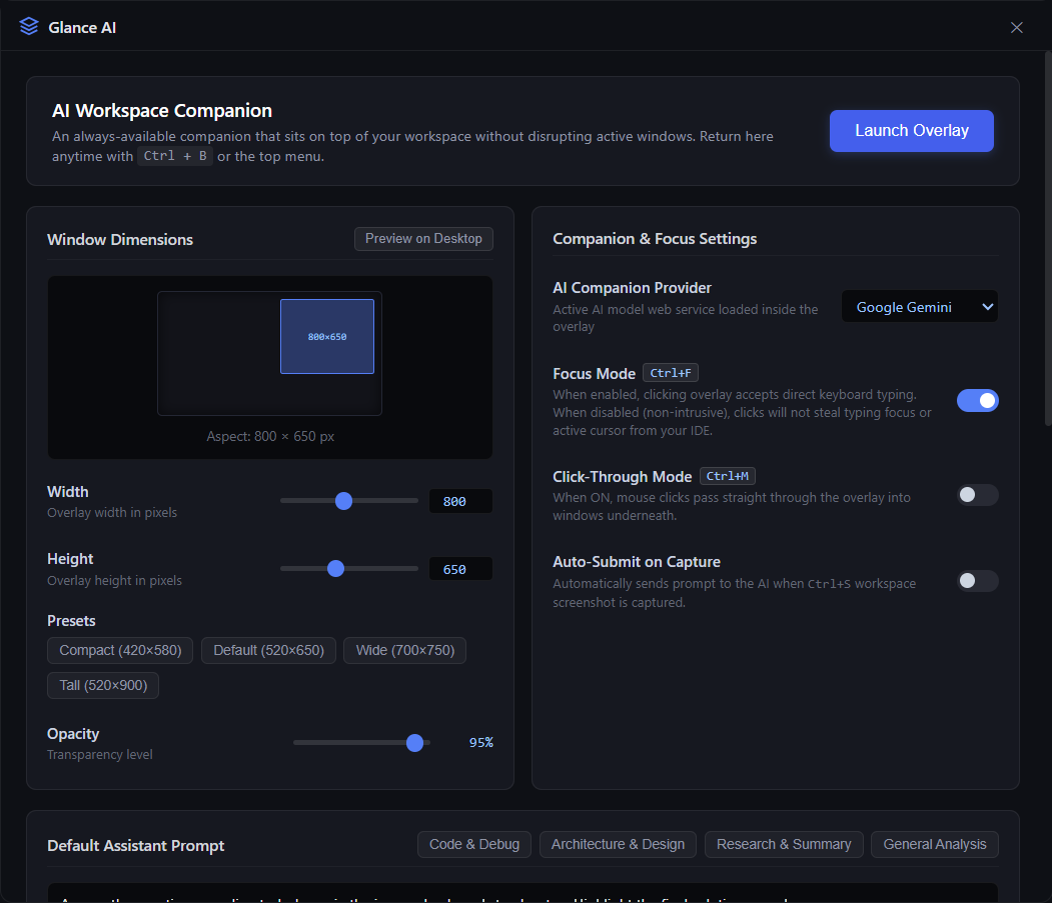
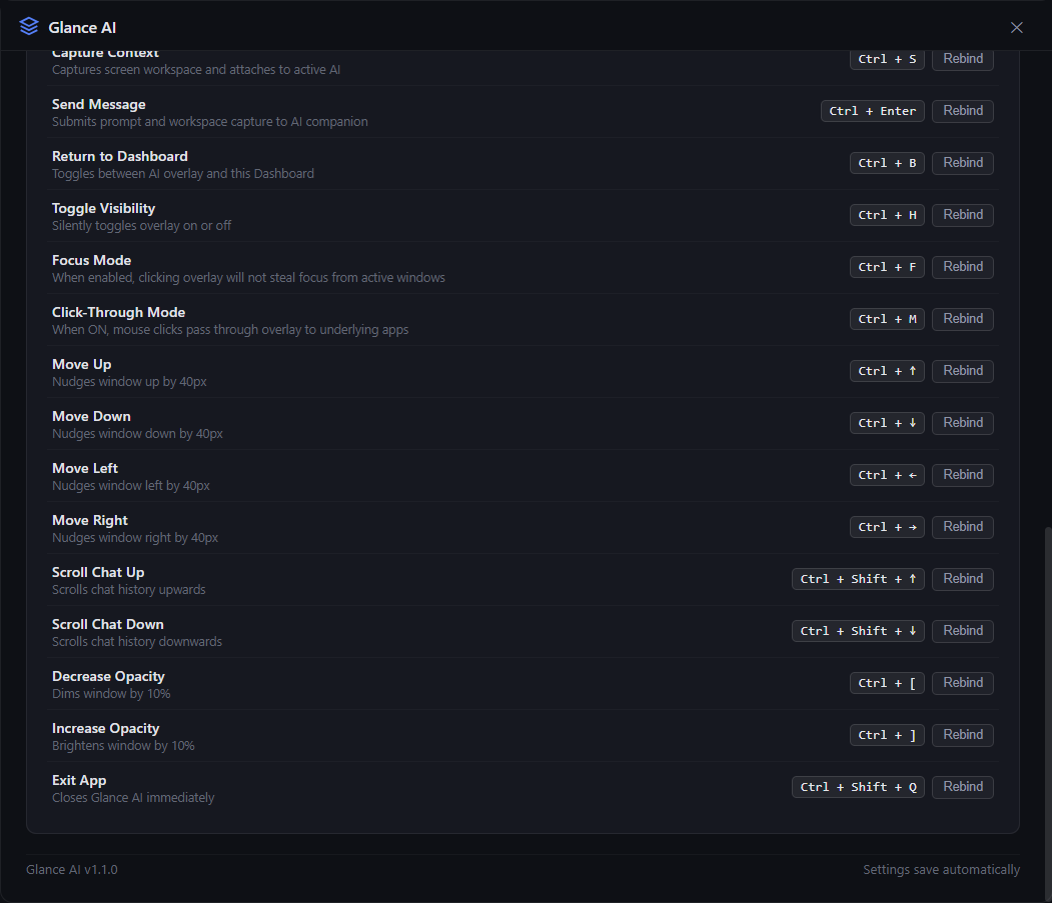
fix(audit): capture scrolled dashboard footer, add modal escape dismiss, and polish launcher branding

diff --git a/tests/injection/click_through_hover.test.js b/tests/injection/click_through_hover.test.js
@@ -127,6 +127,49 @@ suite.test('Toolbar leave does NOT enable click-through if mode is OFF', async (
   );
 });
 
+suite.test('Hotkeys modal opens, accepts Escape key, and restores click-through if enabled', async () => {
+  store.set('clickThrough', true);
+  win.webContents.send('action:click-through-changed', true);
+  await new Promise((r) => setTimeout(r, 50));
+
+  mouseEventsCalls.length = 0;
+
+  // Open modal via settings button
+  await win.webContents.executeJavaScript(`
+    (() => {
+      const btn = document.getElementById('undec-settings-btn');
+      if (btn) btn.click();
+    })()
+  `);
+  await new Promise((r) => setTimeout(r, 150));
+
+  const opened = await win.webContents.executeJavaScript(`
+    !!document.getElementById('undec-modal-overlay')
+  `);
+  assert.strictEqual(opened, true, 'Hotkeys modal must open when settings button clicked');
+
+  // Press Escape key
+  await win.webContents.executeJavaScript(`
+    (() => {
+      window.dispatchEvent(new KeyboardEvent('keydown', { key: 'Escape', bubbles: true }));
+    })()
+  `);
+  await new Promise((r) => setTimeout(r, 100));
+
+  const closed = await win.webContents.executeJavaScript(`
+    !document.getElementById('undec-modal-overlay')
+  `);
+  assert.strictEqual(closed, true, 'Hotkeys modal must close on Escape key');
+
+  await new Promise((r) => setTimeout(r, 100));
+  const lastCall = mouseEventsCalls[mouseEventsCalls.length - 1];
+  assert.strictEqual(
+    lastCall.ignore,
+    true,
+    'Closing modal must restore ignoreMouseEvents: true when clickThrough is active'
+  );
+});
+
 app.whenReady().then(async () => {
   try {
     const success = await suite.run();

diff --git a/src/main/main.js b/src/main/main.js
@@ -251,14 +251,14 @@ ipcMain.handle('hide-window', () => {
 });
 
 ipcMain.handle('close-app', () => {
-  console.log('[Undec] close-app invoked, terminating process');
+  console.log('[Glance AI] close-app invoked, terminating process');
   try {
     globalShortcut.unregisterAll();
     if (mainWindow && !mainWindow.isDestroyed()) {
       mainWindow.destroy();
     }
   } catch (err) {
-    console.error('[Undec] Error closing window:', err);
+    console.error('[Glance AI] Error closing window:', err);
   }
   app.exit(0);
 });

diff --git a/src/preload/preload.js b/src/preload/preload.js
@@ -1587,7 +1587,15 @@ function openSettingsModal() {
       ipcRenderer.invoke('set-ignore-mouse-events', false);
     });
 
+    const onKeyDown = (e) => {
+      if (e.key === 'Escape') {
+        closeModal();
+      }
+    };
+    window.addEventListener('keydown', onKeyDown);
+
     const closeModal = () => {
+      window.removeEventListener('keydown', onKeyDown);
       modalWrap.remove();
       if (isClickThroughActive) {
         ipcRenderer.invoke('set-ignore-mouse-events', true, { forward: true });
